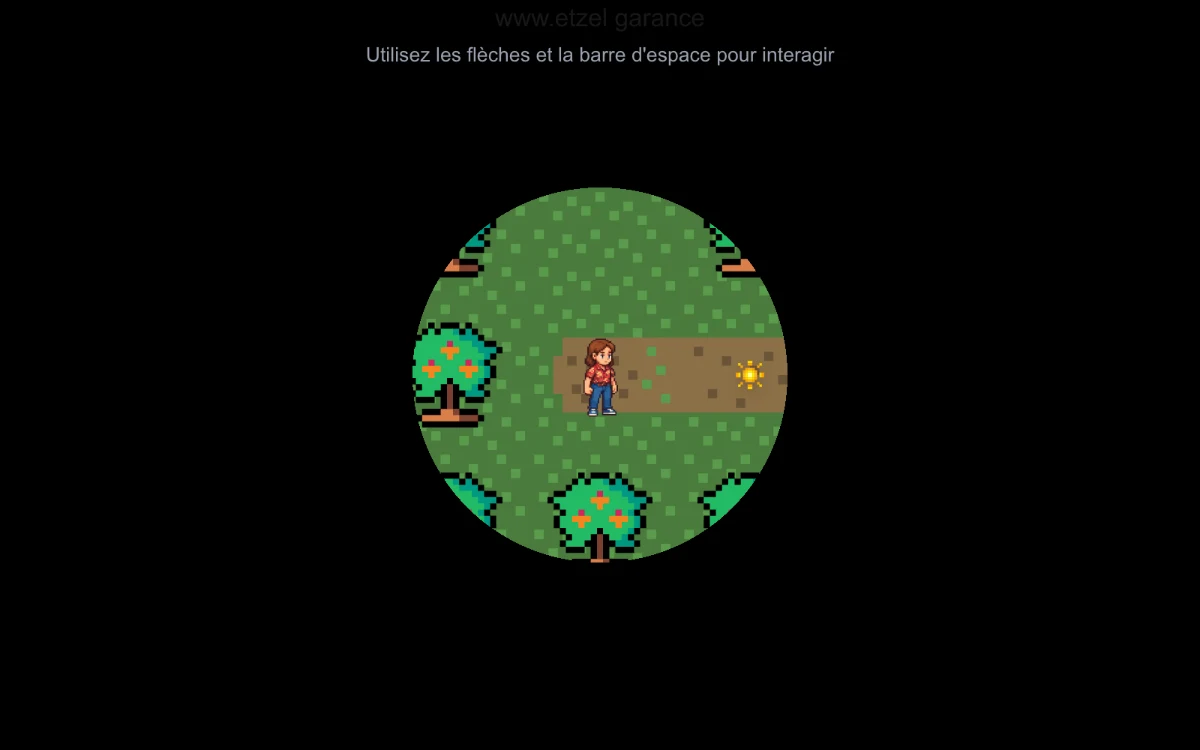
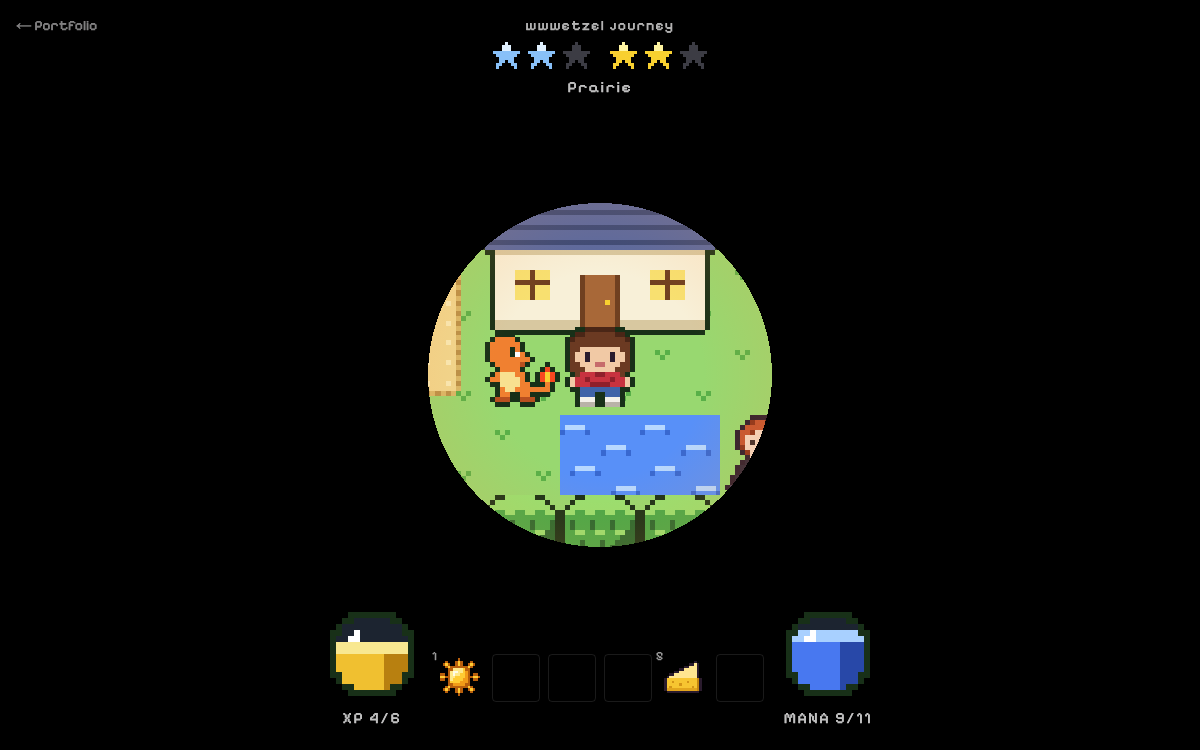
wwwetzel journey en ligne, sous /journey
- La carte mène au jeu, servi par ce site à l'adresse /journey (proxy vers son site Netlify, dans netlify.toml)
- Nouvelle capture du jeu, stack à jour (Next.js, TypeScript)
- La fiche affiche garancewetz.netlify.app/journey plutôt que le seul domaine

diff --git a/src/content/content.ts b/src/content/content.ts
@@ -82,10 +82,11 @@ export const projects: Project[] = [
     short: 'Mon CV en mini-jeu pixel art.',
     year: '2025',
     kind: 'Mini-jeu',
-    stack: ['Next.js', 'Framer Motion'],
-    image: '/shots/journey.webp', // la vraie vue du jeu (faite en local) : tout est noir, sauf autour du personnage
-    alt: 'Écran noir avec un cercle de lumière au centre : en pixel art, un personnage sur un chemin de terre, des arbres autour et un objet brillant à ramasser.',
-    demo: null,
+    stack: ['Next.js', 'TypeScript'],
+    image: '/shots/journey.webp', // la vraie vue du jeu : tout est noir, sauf autour du personnage
+    alt: "Écran noir avec un cercle de lumière au centre : en pixel art façon Game Boy, l'héroïne devant une maison aux fenêtres allumées, un petit dragon orange à ses côtés, un étang ; en haut des étoiles, en bas deux orbes d'XP et de mana.",
+    // Servi par ce site, à l'adresse /journey (voir netlify.toml)
+    demo: 'https://garancewetz.netlify.app/journey',
     code: 'https://github.com/garancewetz/wwwetzel-journey',
   },
 ]

diff --git a/src/features/sheet/ProjectSheet.tsx b/src/features/sheet/ProjectSheet.tsx
@@ -10,7 +10,11 @@ import type { Project } from '@/content/types'
 import './ProjectSheet.css'
 
 // L'adresse d'un lien, sans « https:// » ni chemin (pour l'afficher)
-const host = (url: string) => url.replace(/^https?:\/\//, '').split('/')[0]
+// Le domaine du lien ; pour une page de ce site (le jeu sous /journey), le chemin aussi
+const host = (url: string) => {
+  const [domain, ...path] = url.replace(/^https?:\/\//, '').replace(/\/$/, '').split('/')
+  return domain === 'garancewetz.netlify.app' && path.length ? `${domain}/${path.join('/')}` : domain
+}
 
 // La fiche d'un projet (ouverte au clic sur une carte) : une page du site, en plein écran,
 // sur la même grille. La capture occupe les premières colonnes, le texte les deux dernières.
